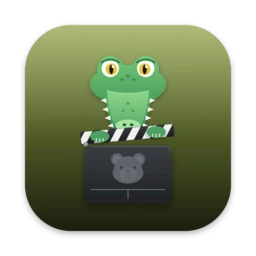
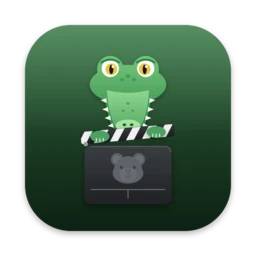
Croc's colour: the croc's green instead of olive

diff --git a/public/build/assets/app-N4uiKNeV.css b/public/build/assets/app-N4uiKNeV.css
@@ -1,0 +1,2 @@
+/*! tailwindcss v4.3.3 | MIT License | https://tailwindcss.com */
+@layer properties{@supports (((-webkit-hyphens:none)) and (not (margin-trim:inline))) or ((-moz-orient:inline) and (not (color:rgb(from red r g b)))){*,:before,:after,::backdrop{--tw-space-y-reverse:0;--tw-divide-y-reverse:0;--tw-border-style:solid;--tw-gradient-position:initial;--tw-gradient-from:#0000;--tw-gradient-via:#0000;--tw-gradient-to:#0000;--tw-gradient-stops:initial;--tw-gradient-via-stops:initial;--tw-gradient-from-position:0%;--tw-gradient-via-position:50%;--tw-gradient-to-position:100%;--tw-font-weight:initial;--tw-tracking:initial;--tw-shadow:0 0 #0000;--tw-shadow-color:initial;--tw-shadow-alpha:100%;--tw-inset-shadow:0 0 #0000;--tw-inset-shadow-color:initial;--tw-inset-shadow-alpha:100%;--tw-ring-color:initial;--tw-ring-shadow:0 0 #0000;--tw-inset-ring-color:initial;--tw-inset-ring-shadow:0 0 #0000;--tw-ring-inset:initial;--tw-ring-offset-width:0px;--tw-ring-offset-color:#fff;--tw-ring-offset-shadow:0 0 #0000;--tw-translate-x:0;--tw-translate-y:0;--tw-translate-z:0;--tw-outline-style:solid}}}@layer theme{:root,:host{--font-sans:var(--font-inter), ui-sans-serif, system-ui, sans-serif;--font-mono:ui-monospace, SFMono-Regular, Menlo, Monaco, Consolas, "Liberation Mono", "Courier New", monospace;--color-neutral-500:oklch(55.6% 0 none);--color-neutral-600:oklch(43.9% 0 none);--color-neutral-700:oklch(37.1% 0 none);--color-neutral-800:oklch(26.9% 0 none);--color-neutral-950:oklch(14.5% 0 none);--color-white:#fff;--spacing:.25rem;--container-6xl:72rem;--text-sm:.875rem;--text-base:1rem;--text-lg:1.125rem;--text-xl:1.25rem;--text-xl--line-height:calc(1.75 / 1.25);--text-2xl:1.5rem;--text-2xl--line-height:calc(2 / 1.5);--text-3xl:1.875rem;--text-3xl--line-height:calc(2.25 / 1.875);--text-4xl:2.25rem;--text-4xl--line-height:calc(2.5 / 2.25);--text-5xl:3rem;--text-5xl--line-height:1;--text-6xl:3.75rem;--text-6xl--line-height:1;--text-7xl:4.5rem;--text-7xl--line-height:1;--font-weight-normal:400;--font-weight-medium:500;--font-weight-semibold:600;--tracking-tight:-.025em;--radius-3xl:1.5rem;--default-transition-duration:.15s;--default-transition-timing-function:cubic-bezier(.4, 0, .2, 1);--default-font-family:var(--font-sans);--default-font-feature-settings:var(--font-sans--font-feature-settings);--default-mono-font-family:var(--font-mono);--font-sans--font-feature-settings:"cv02", "cv03", "cv04", "cv11";--font-display:var(--font-figtree), ui-sans-serif, system-ui, sans-serif;--color-honey-50:#fdf7ec;--color-honey-100:#fbecd2;--color-honey-600:#9f5b26;--color-honey-700:#824a22;--color-honey-800:#6b3d20;--color-honey-950:#2b1a12;--color-gum-50:#f1f8f4;--color-gum-700:#2f6450;--color-gum-950:#10261e;--color-chip-50:#eef7f9;--color-chip-700:#24576a;--color-chip-950:#112832;--color-lilac-50:#f6f3fe;--color-lilac-700:#6243b3;--color-lilac-950:#2a1d4d;--color-burrow-50:#f4f4fa;--color-burrow-700:#484276;--color-burrow-950:#1d1b31;--color-billabong-50:#eff8f0;--color-billabong-700:#255c31;--color-billabong-950:#0c2113}}@layer base{*,:after,:before,::backdrop{box-sizing:border-box;border:0 solid;margin:0;padding:0}::file-selector-button{box-sizing:border-box;border:0 solid;margin:0;padding:0}html,:host{-webkit-text-size-adjust:100%;tab-size:4;line-height:1.5;font-family:var(--default-font-family,-apple-system, BlinkMacSystemFont, "Segoe UI", Roboto, "Helvetica Neue", "Noto Sans", Arial, sans-serif, "Apple Color Emoji", "Segoe UI Emoji", "Segoe UI Symbol", "Noto Color Emoji");font-feature-settings:var(--default-font-feature-settings,normal);font-variation-settings:var(--default-font-variation-settings,normal);-webkit-tap-highlight-color:transparent}hr{height:0;color:inherit;border-top-width:1px}abbr:where([title]){-webkit-text-decoration:underline dotted;text-decoration:underline dotted}h1,h2,h3,h4,h5,h6{font-size:inherit;font-weight:inherit}a{color:inherit;-webkit-text-decoration:inherit;-webkit-text-decoration:inherit;-webkit-text-decoration:inherit;-webkit-text-decoration:inherit;text-decoration:inherit}b,strong{font-weight:bolder}code,kbd,samp,pre{font-family:var(--default-mono-font-family,ui-monospace, SFMono-Regular, Menlo, Monaco, Consolas, "Liberation Mono", "Courier New", monospace);font-feature-settings:var(--default-mono-font-feature-settings,normal);font-variation-settings:var(--default-mono-font-variation-settings,normal);font-size:1em}small{font-size:80%}sub,sup{vertical-align:baseline;font-size:75%;line-height:0;position:relative}sub{bottom:-.25em}sup{top:-.5em}table{text-indent:0;border-color:inherit;border-collapse:collapse}:-moz-focusring:where(:not(iframe)){outline:auto}progress{vertical-align:baseline}summary{display:list-item}ol,ul,menu{list-style:none}img,svg,video,canvas,audio,iframe,embed,object{vertical-align:middle;display:block}img,video{max-width:100%;height:auto}button,input,select,optgroup,textarea{font:inherit;font-feature-settings:inherit;font-variation-settings:inherit;letter-spacing:inherit;color:inherit;opacity:1;background-color:#0000;border-radius:0}::file-selector-button{font:inherit;font-feature-settings:inherit;font-variation-settings:inherit;letter-spacing:inherit;color:inherit;opacity:1;background-color:#0000;border-radius:0}:where(select:is([multiple],[size])) optgroup{font-weight:bolder}:where(select:is([multiple],[size])) optgroup option{padding-inline-start:20px}::file-selector-button{margin-inline-end:4px}::placeholder{opacity:1}@supports (not ((-webkit-appearance:-apple-pay-button))) or (contain-intrinsic-size:1px){::placeholder{color:currentColor}@supports (color:color-mix(in lab, red, red)){::placeholder{color:color-mix(in oklab, currentcolor 50%, transparent)}}}textarea{resize:vertical}::-webkit-search-decoration{-webkit-appearance:none}::-webkit-date-and-time-value{min-height:1lh;text-align:inherit}::-webkit-datetime-edit{display:inline-flex}::-webkit-datetime-edit-fields-wrapper{padding:0}::-webkit-datetime-edit{padding-block:0}::-webkit-datetime-edit-year-field{padding-block:0}::-webkit-datetime-edit-month-field{padding-block:0}::-webkit-datetime-edit-day-field{padding-block:0}::-webkit-datetime-edit-hour-field{padding-block:0}::-webkit-datetime-edit-minute-field{padding-block:0}::-webkit-datetime-edit-second-field{padding-block:0}::-webkit-datetime-edit-millisecond-field{padding-block:0}::-webkit-datetime-edit-meridiem-field{padding-block:0}::-webkit-calendar-picker-indicator{line-height:1}:-moz-ui-invalid{box-shadow:none}button,input:where([type=button],[type=reset],[type=submit]){appearance:button}::file-selector-button{appearance:button}::-webkit-inner-spin-button{height:auto}::-webkit-outer-spin-button{height:auto}[hidden]:where(:not([hidden=until-found])){display:none!important}}@layer components;@layer utilities{.absolute{position:absolute}.relative{position:relative}.inset-x-0{inset-inline:0}.top-0{top:0}.isolate{isolation:isolate}.-z-10{z-index:calc(10 * -1)}.-m-2{margin:calc(var(--spacing) * -2)}.m-0{margin:0}.mx-auto{margin-inline:auto}.mt-1{margin-top:var(--spacing)}.mt-2{margin-top:calc(var(--spacing) * 2)}.mt-4{margin-top:calc(var(--spacing) * 4)}.mt-6{margin-top:calc(var(--spacing) * 6)}.mt-8{margin-top:calc(var(--spacing) * 8)}.mt-10{margin-top:calc(var(--spacing) * 10)}.mt-14{margin-top:calc(var(--spacing) * 14)}.mt-16{margin-top:calc(var(--spacing) * 16)}.mt-auto{margin-top:auto}.flex{display:flex}.grid{display:grid}.inline-flex{display:inline-flex}.size-5{width:calc(var(--spacing) * 5);height:calc(var(--spacing) * 5)}.size-6{width:calc(var(--spacing) * 6);height:calc(var(--spacing) * 6)}.size-24{width:calc(var(--spacing) * 24);height:calc(var(--spacing) * 24)}.h-6{height:calc(var(--spacing) * 6)}.h-7{height:calc(var(--spacing) * 7)}.h-20{height:calc(var(--spacing) * 20)}.h-\[44rem\]{height:44rem}.h-\[630px\]{height:630px}.w-\[1200px\]{width:1200px}.w-auto{width:auto}.w-full{width:100%}.max-w-6xl{max-width:var(--container-6xl)}.max-w-\[20ch\]{max-width:20ch}.max-w-\[22ch\]{max-width:22ch}.max-w-\[30ch\]{max-width:30ch}.max-w-\[48ch\]{max-width:48ch}.max-w-\[56ch\]{max-width:56ch}.max-w-\[65ch\]{max-width:65ch}.shrink-0{flex-shrink:0}.scroll-mt-8{scroll-margin-top:calc(var(--spacing) * 8)}.grid-cols-1{grid-template-columns:repeat(1,minmax(0,1fr))}.flex-col{flex-direction:column}.flex-wrap{flex-wrap:wrap}.items-center{align-items:center}.justify-between{justify-content:space-between}.justify-center{justify-content:center}.justify-end{justify-content:flex-end}.gap-4{gap:calc(var(--spacing) * 4)}.gap-6{gap:calc(var(--spacing) * 6)}.gap-8{gap:calc(var(--spacing) * 8)}:where(.space-y-4>:not(:last-child)){--tw-space-y-reverse:0;margin-block-start:calc(calc(var(--spacing) * 4) * var(--tw-space-y-reverse));margin-block-end:calc(calc(var(--spacing) * 4) * calc(1 - var(--tw-space-y-reverse)))}.gap-x-1\.5{column-gap:calc(var(--spacing) * 1.5)}.gap-x-2{column-gap:calc(var(--spacing) * 2)}.gap-x-2\.5{column-gap:calc(var(--spacing) * 2.5)}.gap-x-3{column-gap:calc(var(--spacing) * 3)}.gap-x-4{column-gap:calc(var(--spacing) * 4)}.gap-x-5{column-gap:calc(var(--spacing) * 5)}.gap-x-6{column-gap:calc(var(--spacing) * 6)}.gap-x-8{column-gap:calc(var(--spacing) * 8)}.gap-x-12{column-gap:calc(var(--spacing) * 12)}.gap-y-2{row-gap:calc(var(--spacing) * 2)}.gap-y-4{row-gap:calc(var(--spacing) * 4)}:where(.divide-y>:not(:last-child)){--tw-divide-y-reverse:0;border-bottom-style:var(--tw-border-style);border-top-style:var(--tw-border-style);border-top-width:calc(1px * var(--tw-divide-y-reverse));border-bottom-width:calc(1px * calc(1 - var(--tw-divide-y-reverse)))}:where(.divide-neutral-950\/5>:not(:last-child)){border-color:#0a0a0a0d}@supports (color:color-mix(in lab, red, red)){:where(.divide-neutral-950\/5>:not(:last-child)){border-color:color-mix(in oklab, var(--color-neutral-950) 5%, transparent)}}.self-start{align-self:flex-start}.overflow-hidden{overflow:hidden}.rounded-3xl{border-radius:var(--radius-3xl)}.rounded-full{border-radius:2147483647px}.border-t{border-top-style:var(--tw-border-style);border-top-width:1px}.border-neutral-950\/5{border-color:#0a0a0a0d}@supports (color:color-mix(in lab, red, red)){.border-neutral-950\/5{border-color:color-mix(in oklab, var(--color-neutral-950) 5%, transparent)}}.bg-honey-600{background-color:var(--color-honey-600)}.bg-white{background-color:var(--color-white)}.bg-linear-to-b{--tw-gradient-position:to bottom}@supports (background-image:linear-gradient(in lab, red, red)){.bg-linear-to-b{--tw-gradient-position:to bottom in oklab}}.bg-linear-to-b{background-image:linear-gradient(var(--tw-gradient-stops))}.bg-linear-to-br{--tw-gradient-position:to bottom right}@supports (background-image:linear-gradient(in lab, red, red)){.bg-linear-to-br{--tw-gradient-position:to bottom right in oklab}}.bg-linear-to-br{background-image:linear-gradient(var(--tw-gradient-stops))}.from-billabong-50{--tw-gradient-from:var(--color-billabong-50);--tw-gradient-stops:var(--tw-gradient-via-stops,var(--tw-gradient-position), var(--tw-gradient-from) var(--tw-gradient-from-position), var(--tw-gradient-to) var(--tw-gradient-to-position))}.from-burrow-50{--tw-gradient-from:var(--color-burrow-50);--tw-gradient-stops:var(--tw-gradient-via-stops,var(--tw-gradient-position), var(--tw-gradient-from) var(--tw-gradient-from-position), var(--tw-gradient-to) var(--tw-gradient-to-position))}.from-chip-50{--tw-gradient-from:var(--color-chip-50);--tw-gradient-stops:var(--tw-gradient-via-stops,var(--tw-gradient-position), var(--tw-gradient-from) var(--tw-gradient-from-position), var(--tw-gradient-to) var(--tw-gradient-to-position))}.from-gum-50{--tw-gradient-from:var(--color-gum-50);--tw-gradient-stops:var(--tw-gradient-via-stops,var(--tw-gradient-position), var(--tw-gradient-from) var(--tw-gradient-from-position), var(--tw-gradient-to) var(--tw-gradient-to-position))}.from-honey-50{--tw-gradient-from:var(--color-honey-50);--tw-gradient-stops:var(--tw-gradient-via-stops,var(--tw-gradient-position), var(--tw-gradient-from) var(--tw-gradient-from-position), var(--tw-gradient-to) var(--tw-gradient-to-position))}.from-lilac-50{--tw-gradient-from:var(--color-lilac-50);--tw-gradient-stops:var(--tw-gradient-via-stops,var(--tw-gradient-position), var(--tw-gradient-from) var(--tw-gradient-from-position), var(--tw-gradient-to) var(--tw-gradient-to-position))}.via-white{--tw-gradient-via:var(--color-white);--tw-gradient-via-stops:var(--tw-gradient-position), var(--tw-gradient-from) var(--tw-gradient-from-position), var(--tw-gradient-via) var(--tw-gradient-via-position), var(--tw-gradient-to) var(--tw-gradient-to-position);--tw-gradient-stops:var(--tw-gradient-via-stops)}.to-honey-100{--tw-gradient-to:var(--color-honey-100);--tw-gradient-stops:var(--tw-gradient-via-stops,var(--tw-gradient-position), var(--tw-gradient-from) var(--tw-gradient-from-position), var(--tw-gradient-to) var(--tw-gradient-to-position))}.to-white{--tw-gradient-to:var(--color-white);--tw-gradient-stops:var(--tw-gradient-via-stops,var(--tw-gradient-position), var(--tw-gradient-from) var(--tw-gradient-from-position), var(--tw-gradient-to) var(--tw-gradient-to-position))}.to-60\%{--tw-gradient-to-position:60%}.fill-current{fill:currentColor}.fill-white{fill:var(--color-white)}.stroke-honey-600{stroke:var(--color-honey-600)}.p-8{padding:calc(var(--spacing) * 8)}.px-3{padding-inline:calc(var(--spacing) * 3)}.px-6{padding-inline:calc(var(--spacing) * 6)}.px-24{padding-inline:calc(var(--spacing) * 24)}.py-1\.5{padding-block:calc(var(--spacing) * 1.5)}.py-3{padding-block:calc(var(--spacing) * 3)}.py-5{padding-block:calc(var(--spacing) * 5)}.py-10{padding-block:calc(var(--spacing) * 10)}.py-12{padding-block:calc(var(--spacing) * 12)}.py-24{padding-block:calc(var(--spacing) * 24)}.pt-8{padding-top:calc(var(--spacing) * 8)}.pt-10{padding-top:calc(var(--spacing) * 10)}.pt-16{padding-top:calc(var(--spacing) * 16)}.pr-4{padding-right:calc(var(--spacing) * 4)}.pr-5{padding-right:calc(var(--spacing) * 5)}.pb-24{padding-bottom:calc(var(--spacing) * 24)}.pl-4{padding-left:calc(var(--spacing) * 4)}.pl-5{padding-left:calc(var(--spacing) * 5)}.text-center{text-align:center}.font-sans{font-family:var(--font-sans);font-feature-settings:var(--font-sans--font-feature-settings)}.font-display{font-family:var(--font-display)}.text-2xl{font-size:var(--text-2xl);line-height:var(--tw-leading,var(--text-2xl--line-height))}.text-3xl{font-size:var(--text-3xl);line-height:var(--tw-leading,var(--text-3xl--line-height))}.text-4xl{font-size:var(--text-4xl);line-height:var(--tw-leading,var(--text-4xl--line-height))}.text-5xl{font-size:var(--text-5xl);line-height:var(--tw-leading,var(--text-5xl--line-height))}.text-6xl{font-size:var(--text-6xl);line-height:var(--tw-leading,var(--text-6xl--line-height))}.text-base\/6{font-size:var(--text-base);line-height:calc(var(--spacing) * 6)}.text-base\/7{font-size:var(--text-base);line-height:calc(var(--spacing) * 7)}.text-lg\/7{font-size:var(--text-lg);line-height:calc(var(--spacing) * 7)}.text-lg\/8{font-size:var(--text-lg);line-height:calc(var(--spacing) * 8)}.text-sm\/6{font-size:var(--text-sm);line-height:calc(var(--spacing) * 6)}.text-xl{font-size:var(--text-xl);line-height:var(--tw-leading,var(--text-xl--line-height))}.font-medium{--tw-font-weight:var(--font-weight-medium);font-weight:var(--font-weight-medium)}.font-normal{--tw-font-weight:var(--font-weight-normal);font-weight:var(--font-weight-normal)}.font-semibold{--tw-font-weight:var(--font-weight-semibold);font-weight:var(--font-weight-semibold)}.tracking-tight{--tw-tracking:var(--tracking-tight);letter-spacing:var(--tracking-tight)}.text-balance{text-wrap:balance}.text-pretty{text-wrap:pretty}.whitespace-nowrap{white-space:nowrap}.text-billabong-700{color:var(--color-billabong-700)}.text-billabong-950{color:var(--color-billabong-950)}.text-burrow-700{color:var(--color-burrow-700)}.text-burrow-950{color:var(--color-burrow-950)}.text-chip-700{color:var(--color-chip-700)}.text-chip-950{color:var(--color-chip-950)}.text-gum-700{color:var(--color-gum-700)}.text-gum-950{color:var(--color-gum-950)}.text-honey-600{color:var(--color-honey-600)}.text-honey-800{color:var(--color-honey-800)}.text-honey-950{color:var(--color-honey-950)}.text-lilac-700{color:var(--color-lilac-700)}.text-lilac-950{color:var(--color-lilac-950)}.text-neutral-500{color:var(--color-neutral-500)}.text-neutral-600{color:var(--color-neutral-600)}.text-neutral-700{color:var(--color-neutral-700)}.text-neutral-800{color:var(--color-neutral-800)}.text-neutral-950{color:var(--color-neutral-950)}.text-white{color:var(--color-white)}.antialiased{-webkit-font-smoothing:antialiased;-moz-osx-font-smoothing:grayscale}.shadow-sm{--tw-shadow:0 1px 3px 0 var(--tw-shadow-color,#0000001a), 0 1px 2px -1px var(--tw-shadow-color,#0000001a);box-shadow:var(--tw-inset-shadow), var(--tw-inset-ring-shadow), var(--tw-ring-offset-shadow), var(--tw-ring-shadow), var(--tw-shadow)}.ring-1{--tw-ring-shadow:var(--tw-ring-inset,) 0 0 0 calc(1px + var(--tw-ring-offset-width)) var(--tw-ring-color,currentcolor);box-shadow:var(--tw-inset-shadow), var(--tw-inset-ring-shadow), var(--tw-ring-offset-shadow), var(--tw-ring-shadow), var(--tw-shadow)}.ring-billabong-950\/10{--tw-ring-color:#0c21131a}@supports (color:color-mix(in lab, red, red)){.ring-billabong-950\/10{--tw-ring-color:color-mix(in oklab, var(--color-billabong-950) 10%, transparent)}}.ring-burrow-950\/10{--tw-ring-color:#1d1b311a}@supports (color:color-mix(in lab, red, red)){.ring-burrow-950\/10{--tw-ring-color:color-mix(in oklab, var(--color-burrow-950) 10%, transparent)}}.ring-chip-950\/10{--tw-ring-color:#1128321a}@supports (color:color-mix(in lab, red, red)){.ring-chip-950\/10{--tw-ring-color:color-mix(in oklab, var(--color-chip-950) 10%, transparent)}}.ring-gum-950\/10{--tw-ring-color:#10261e1a}@supports (color:color-mix(in lab, red, red)){.ring-gum-950\/10{--tw-ring-color:color-mix(in oklab, var(--color-gum-950) 10%, transparent)}}.ring-honey-950\/10{--tw-ring-color:#2b1a121a}@supports (color:color-mix(in lab, red, red)){.ring-honey-950\/10{--tw-ring-color:color-mix(in oklab, var(--color-honey-950) 10%, transparent)}}.ring-lilac-950\/10{--tw-ring-color:#2a1d4d1a}@supports (color:color-mix(in lab, red, red)){.ring-lilac-950\/10{--tw-ring-color:color-mix(in oklab, var(--color-lilac-950) 10%, transparent)}}@media (hover:hover){.group-hover\:translate-x-0\.5:is(:where(.group):hover *){--tw-translate-x:calc(var(--spacing) * .5);translate:var(--tw-translate-x) var(--tw-translate-y)}.hover\:bg-honey-50:hover{background-color:var(--color-honey-50)}.hover\:bg-honey-700:hover{background-color:var(--color-honey-700)}.hover\:text-honey-600:hover{color:var(--color-honey-600)}.hover\:text-honey-700:hover{color:var(--color-honey-700)}.hover\:ring-billabong-950\/20:hover{--tw-ring-color:#0c211333}@supports (color:color-mix(in lab, red, red)){.hover\:ring-billabong-950\/20:hover{--tw-ring-color:color-mix(in oklab, var(--color-billabong-950) 20%, transparent)}}.hover\:ring-burrow-950\/20:hover{--tw-ring-color:#1d1b3133}@supports (color:color-mix(in lab, red, red)){.hover\:ring-burrow-950\/20:hover{--tw-ring-color:color-mix(in oklab, var(--color-burrow-950) 20%, transparent)}}.hover\:ring-chip-950\/20:hover{--tw-ring-color:#11283233}@supports (color:color-mix(in lab, red, red)){.hover\:ring-chip-950\/20:hover{--tw-ring-color:color-mix(in oklab, var(--color-chip-950) 20%, transparent)}}.hover\:ring-gum-950\/20:hover{--tw-ring-color:#10261e33}@supports (color:color-mix(in lab, red, red)){.hover\:ring-gum-950\/20:hover{--tw-ring-color:color-mix(in oklab, var(--color-gum-950) 20%, transparent)}}.hover\:ring-lilac-950\/20:hover{--tw-ring-color:#2a1d4d33}@supports (color:color-mix(in lab, red, red)){.hover\:ring-lilac-950\/20:hover{--tw-ring-color:color-mix(in oklab, var(--color-lilac-950) 20%, transparent)}}}.focus-visible\:outline-2:focus-visible{outline-style:var(--tw-outline-style);outline-width:2px}.focus-visible\:outline-offset-2:focus-visible{outline-offset:2px}.focus-visible\:outline-honey-600:focus-visible{outline-color:var(--color-honey-600)}@media (prefers-reduced-motion:no-preference){.motion-safe\:scroll-smooth{scroll-behavior:smooth}.motion-safe\:transition-transform{transition-property:transform,translate,scale,rotate;transition-timing-function:var(--tw-ease,var(--default-transition-timing-function));transition-duration:var(--tw-duration,var(--default-transition-duration))}}@media not all and (width>=40rem){.max-sm\:hidden{display:none}}@media (width>=40rem){.sm\:size-4{width:calc(var(--spacing) * 4);height:calc(var(--spacing) * 4)}.sm\:grid-cols-\[12rem_1fr\]{grid-template-columns:12rem 1fr}.sm\:flex-row{flex-direction:row}.sm\:items-center{align-items:center}.sm\:justify-between{justify-content:space-between}.sm\:py-32{padding-block:calc(var(--spacing) * 32)}.sm\:pt-16{padding-top:calc(var(--spacing) * 16)}.sm\:pt-24{padding-top:calc(var(--spacing) * 24)}.sm\:pb-32{padding-bottom:calc(var(--spacing) * 32)}.sm\:text-5xl{font-size:var(--text-5xl);line-height:var(--tw-leading,var(--text-5xl--line-height))}.sm\:text-7xl{font-size:var(--text-7xl);line-height:var(--tw-leading,var(--text-7xl--line-height))}.sm\:text-base\/7{font-size:var(--text-base);line-height:calc(var(--spacing) * 7)}.sm\:text-sm\/6{font-size:var(--text-sm);line-height:calc(var(--spacing) * 6)}.sm\:text-xl\/8{font-size:var(--text-xl);line-height:calc(var(--spacing) * 8)}}@media (width>=48rem){.md\:grid-cols-2{grid-template-columns:repeat(2,minmax(0,1fr))}}@media (width>=64rem){.lg\:col-span-2{grid-column:span 2/span 2}.lg\:grid-cols-3{grid-template-columns:repeat(3,minmax(0,1fr))}.lg\:items-end{align-items:flex-end}.lg\:self-end{align-self:flex-end}.lg\:px-8{padding-inline:calc(var(--spacing) * 8)}}}@property --tw-space-y-reverse{syntax:"*";inherits:false;initial-value:0}@property --tw-divide-y-reverse{syntax:"*";inherits:false;initial-value:0}@property --tw-border-style{syntax:"*";inherits:false;initial-value:solid}@property --tw-gradient-position{syntax:"*";inherits:false}@property --tw-gradient-from{syntax:"<color>";inherits:false;initial-value:#0000}@property --tw-gradient-via{syntax:"<color>";inherits:false;initial-value:#0000}@property --tw-gradient-to{syntax:"<color>";inherits:false;initial-value:#0000}@property --tw-gradient-stops{syntax:"*";inherits:false}@property --tw-gradient-via-stops{syntax:"*";inherits:false}@property --tw-gradient-from-position{syntax:"<length-percentage>";inherits:false;initial-value:0%}@property --tw-gradient-via-position{syntax:"<length-percentage>";inherits:false;initial-value:50%}@property --tw-gradient-to-position{syntax:"<length-percentage>";inherits:false;initial-value:100%}@property --tw-font-weight{syntax:"*";inherits:false}@property --tw-tracking{syntax:"*";inherits:false}@property --tw-shadow{syntax:"*";inherits:false;initial-value:0 0 #0000}@property --tw-shadow-color{syntax:"*";inherits:false}@property --tw-shadow-alpha{syntax:"<percentage>";inherits:false;initial-value:100%}@property --tw-inset-shadow{syntax:"*";inherits:false;initial-value:0 0 #0000}@property --tw-inset-shadow-color{syntax:"*";inherits:false}@property --tw-inset-shadow-alpha{syntax:"<percentage>";inherits:false;initial-value:100%}@property --tw-ring-color{syntax:"*";inherits:false}@property --tw-ring-shadow{syntax:"*";inherits:false;initial-value:0 0 #0000}@property --tw-inset-ring-color{syntax:"*";inherits:false}@property --tw-inset-ring-shadow{syntax:"*";inherits:false;initial-value:0 0 #0000}@property --tw-ring-inset{syntax:"*";inherits:false}@property --tw-ring-offset-width{syntax:"<length>";inherits:false;initial-value:0}@property --tw-ring-offset-color{syntax:"*";inherits:false;initial-value:#fff}@property --tw-ring-offset-shadow{syntax:"*";inherits:false;initial-value:0 0 #0000}@property --tw-translate-x{syntax:"*";inherits:false;initial-value:0}@property --tw-translate-y{syntax:"*";inherits:false;initial-value:0}@property --tw-translate-z{syntax:"*";inherits:false;initial-value:0}@property --tw-outline-style{syntax:"*";inherits:false;initial-value:solid}

diff --git a/resources/css/app.css b/resources/css/app.css
@@ -34,7 +34,7 @@
     --color-burrow-50: #f4f4fa;
     --color-burrow-700: #484276;
     --color-burrow-950: #1d1b31;
-    --color-billabong-50: #f6f7ee;
-    --color-billabong-700: #4d5826;
-    --color-billabong-950: #1a1e0e;
+    --color-billabong-50: #eff8f0;
+    --color-billabong-700: #255c31;
+    --color-billabong-950: #0c2113;
 }
